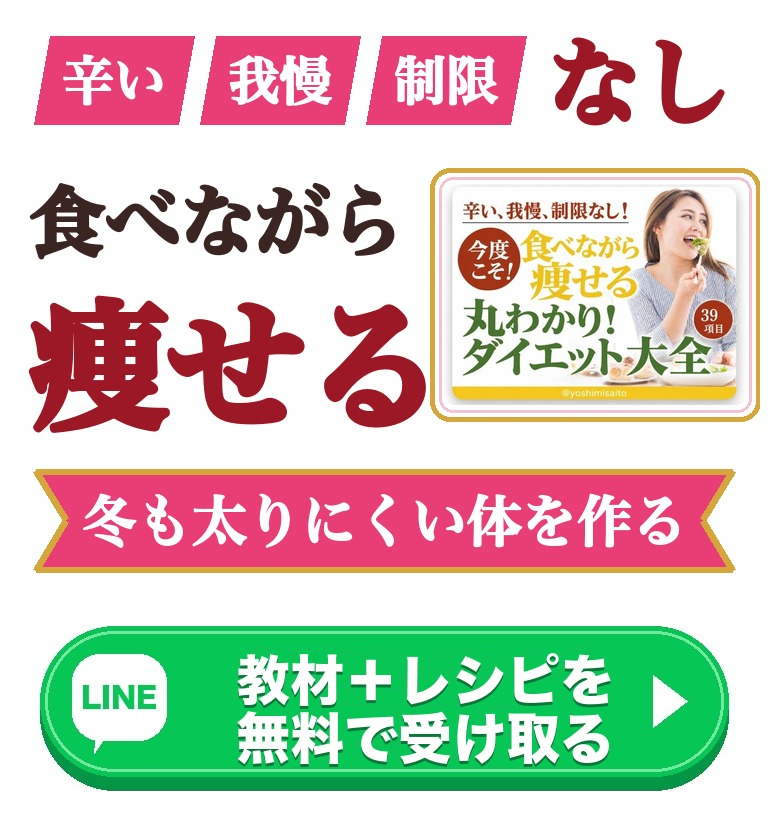
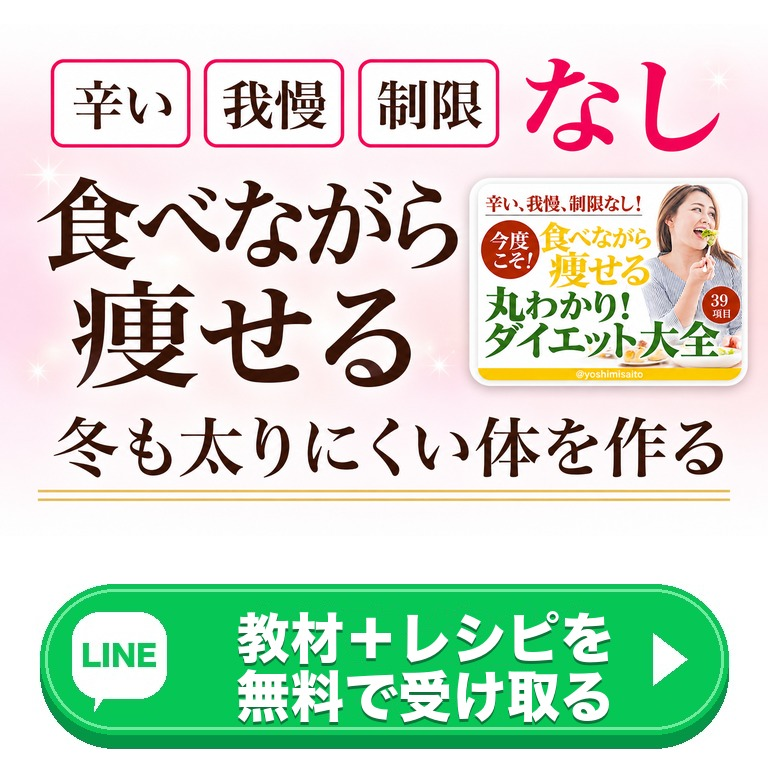
確認用ページ：トップ（吹き出しとトップ画像）を元に戻す

diff --git a/preview/index.html b/preview/index.html
@@ -2,4 +2,4 @@
 <style>body{margin:0;background:#fff}.w{max-width:480px;margin:0 auto}.w img{display:block;width:100%}
 .sticky{position:fixed;left:0;right:0;bottom:0;background:rgba(255,255,255,.95);padding:10px 14px;border-top:3px solid #f6b3c0}
 .sticky a{position:relative;display:flex;align-items:center;justify-content:center;max-width:420px;margin:0 auto;background:#06c755;color:#fff;font-weight:800;font-size:16px;white-space:nowrap;padding:0 40px 0 62px;height:58px;border-radius:999px;text-decoration:none;font-family:"Hiragino Sans",sans-serif;box-shadow:0 5px 0 #04964a;border:2px solid #7ce6a6;box-sizing:border-box}.sticky .ic{position:absolute;left:12px;top:50%;transform:translateY(-50%);width:42px;height:38px;background:#fff;border-radius:13px;color:#06c755;font-size:13px;font-weight:900;display:flex;align-items:center;justify-content:center;letter-spacing:-.5px}.sticky .ic:after{content:"";position:absolute;left:9px;bottom:-7px;border-left:6px solid transparent;border-right:6px solid transparent;border-top:9px solid #fff;transform:skewX(20deg)}.sticky .ar{position:absolute;right:18px;top:50%;transform:translateY(-50%);border-left:14px solid #fff;border-top:10px solid transparent;border-bottom:10px solid transparent}</style></head>
-<body><div class="w"><img src="q01.jpg?v=17" alt=""><a href="https://lin.ee/VeUwJHO"><img src="q02.jpg?v=17" alt=""></a><img src="q03.jpg?v=17" alt=""><img src="q04.jpg?v=17" alt=""><img src="q05.jpg?v=17" alt=""><img src="q06.jpg?v=17" alt=""><img src="q07.jpg?v=17" alt=""><img src="q08.jpg?v=17" alt=""><a href="https://lin.ee/VeUwJHO"><img src="q09.jpg?v=17" alt=""></a><img src="q10.jpg?v=17" alt=""><img src="q11.jpg?v=17" alt=""><img src="q12.jpg?v=17" alt=""><img src="q13.jpg?v=17" alt=""><img src="q14.jpg?v=17" alt=""><a href="https://lin.ee/VeUwJHO"><img src="q15.jpg?v=17" alt=""></a><img src="q16.jpg?v=17" alt=""><a href="https://lin.ee/VeUwJHO"><img src="q17.jpg?v=17" alt=""></a></div><div class="sticky"><a href="https://lin.ee/VeUwJHO"><span class="ic">LINE</span>教材＋レシピを無料で受け取る<span class="ar"></span></a></div></body></html>
+<body><div class="w"><img src="q01.jpg?v=18" alt=""><a href="https://lin.ee/VeUwJHO"><img src="q02.jpg?v=18" alt=""></a><img src="q03.jpg?v=18" alt=""><img src="q04.jpg?v=18" alt=""><img src="q05.jpg?v=18" alt=""><img src="q06.jpg?v=18" alt=""><img src="q07.jpg?v=18" alt=""><img src="q08.jpg?v=18" alt=""><a href="https://lin.ee/VeUwJHO"><img src="q09.jpg?v=18" alt=""></a><img src="q10.jpg?v=18" alt=""><img src="q11.jpg?v=18" alt=""><img src="q12.jpg?v=18" alt=""><img src="q13.jpg?v=18" alt=""><img src="q14.jpg?v=18" alt=""><a href="https://lin.ee/VeUwJHO"><img src="q15.jpg?v=18" alt=""></a><img src="q16.jpg?v=18" alt=""><a href="https://lin.ee/VeUwJHO"><img src="q17.jpg?v=18" alt=""></a></div><div class="sticky"><a href="https://lin.ee/VeUwJHO"><span class="ic">LINE</span>教材＋レシピを無料で受け取る<span class="ar"></span></a></div></body></html>
